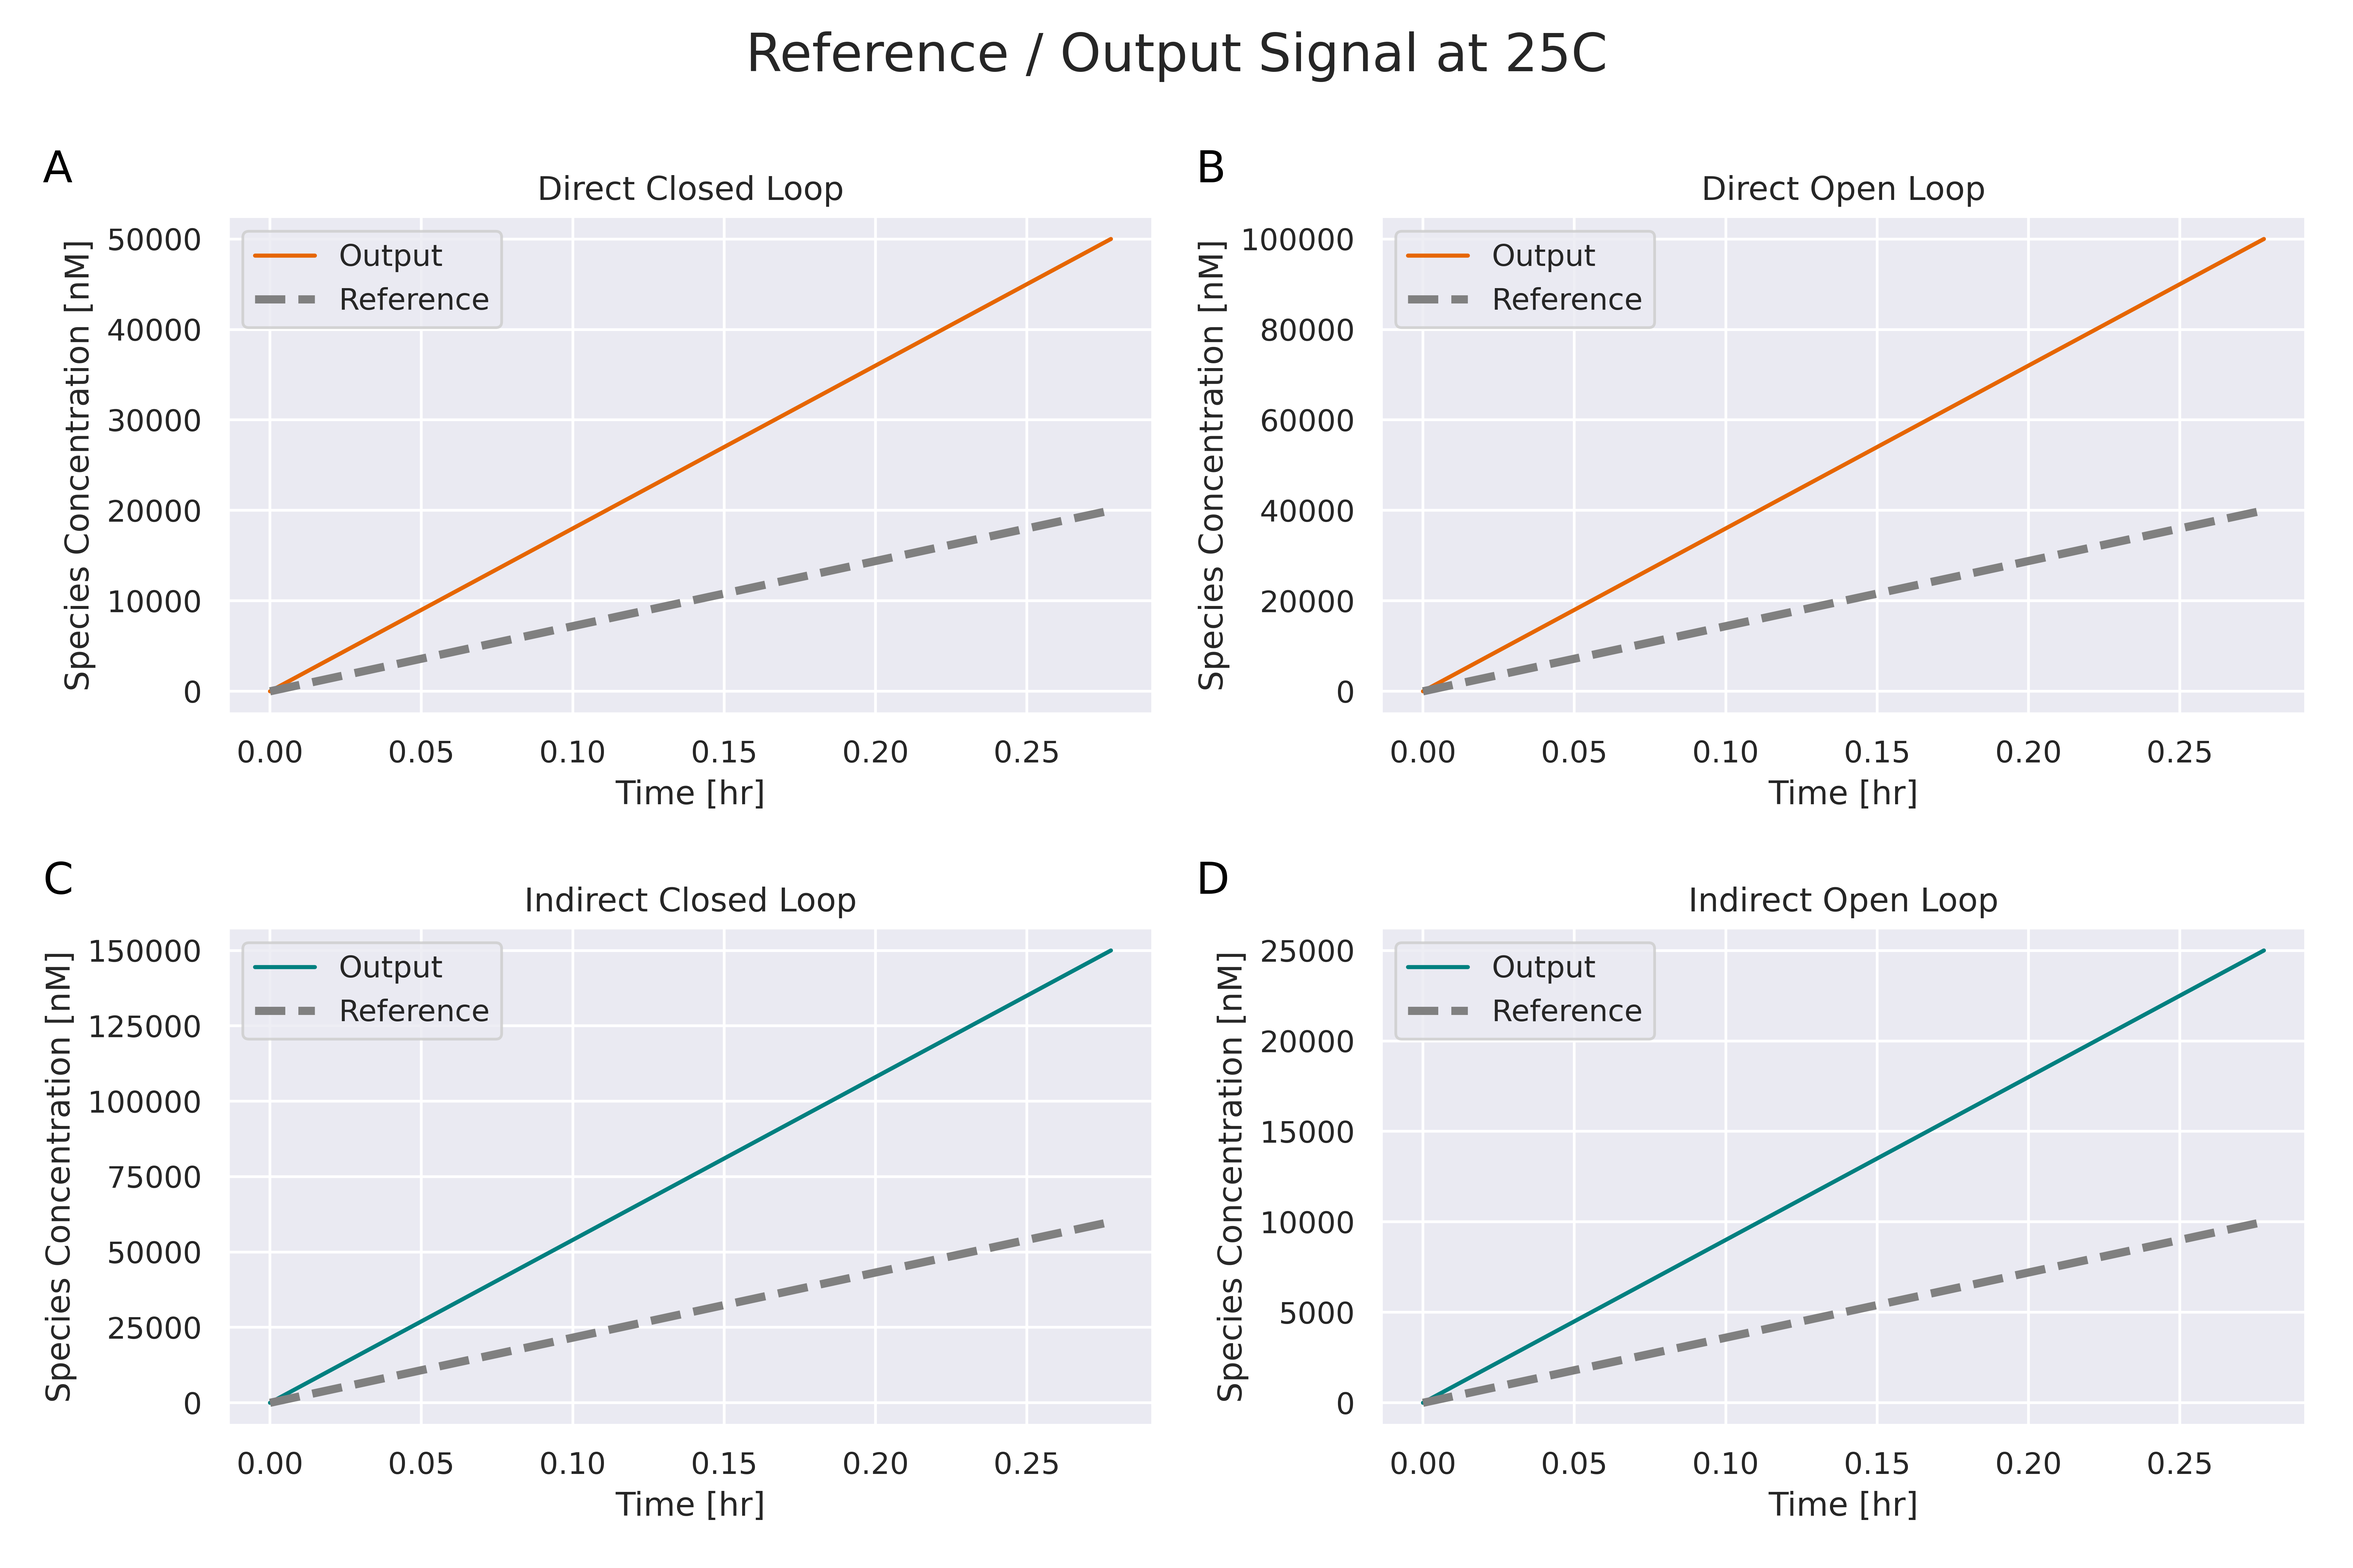
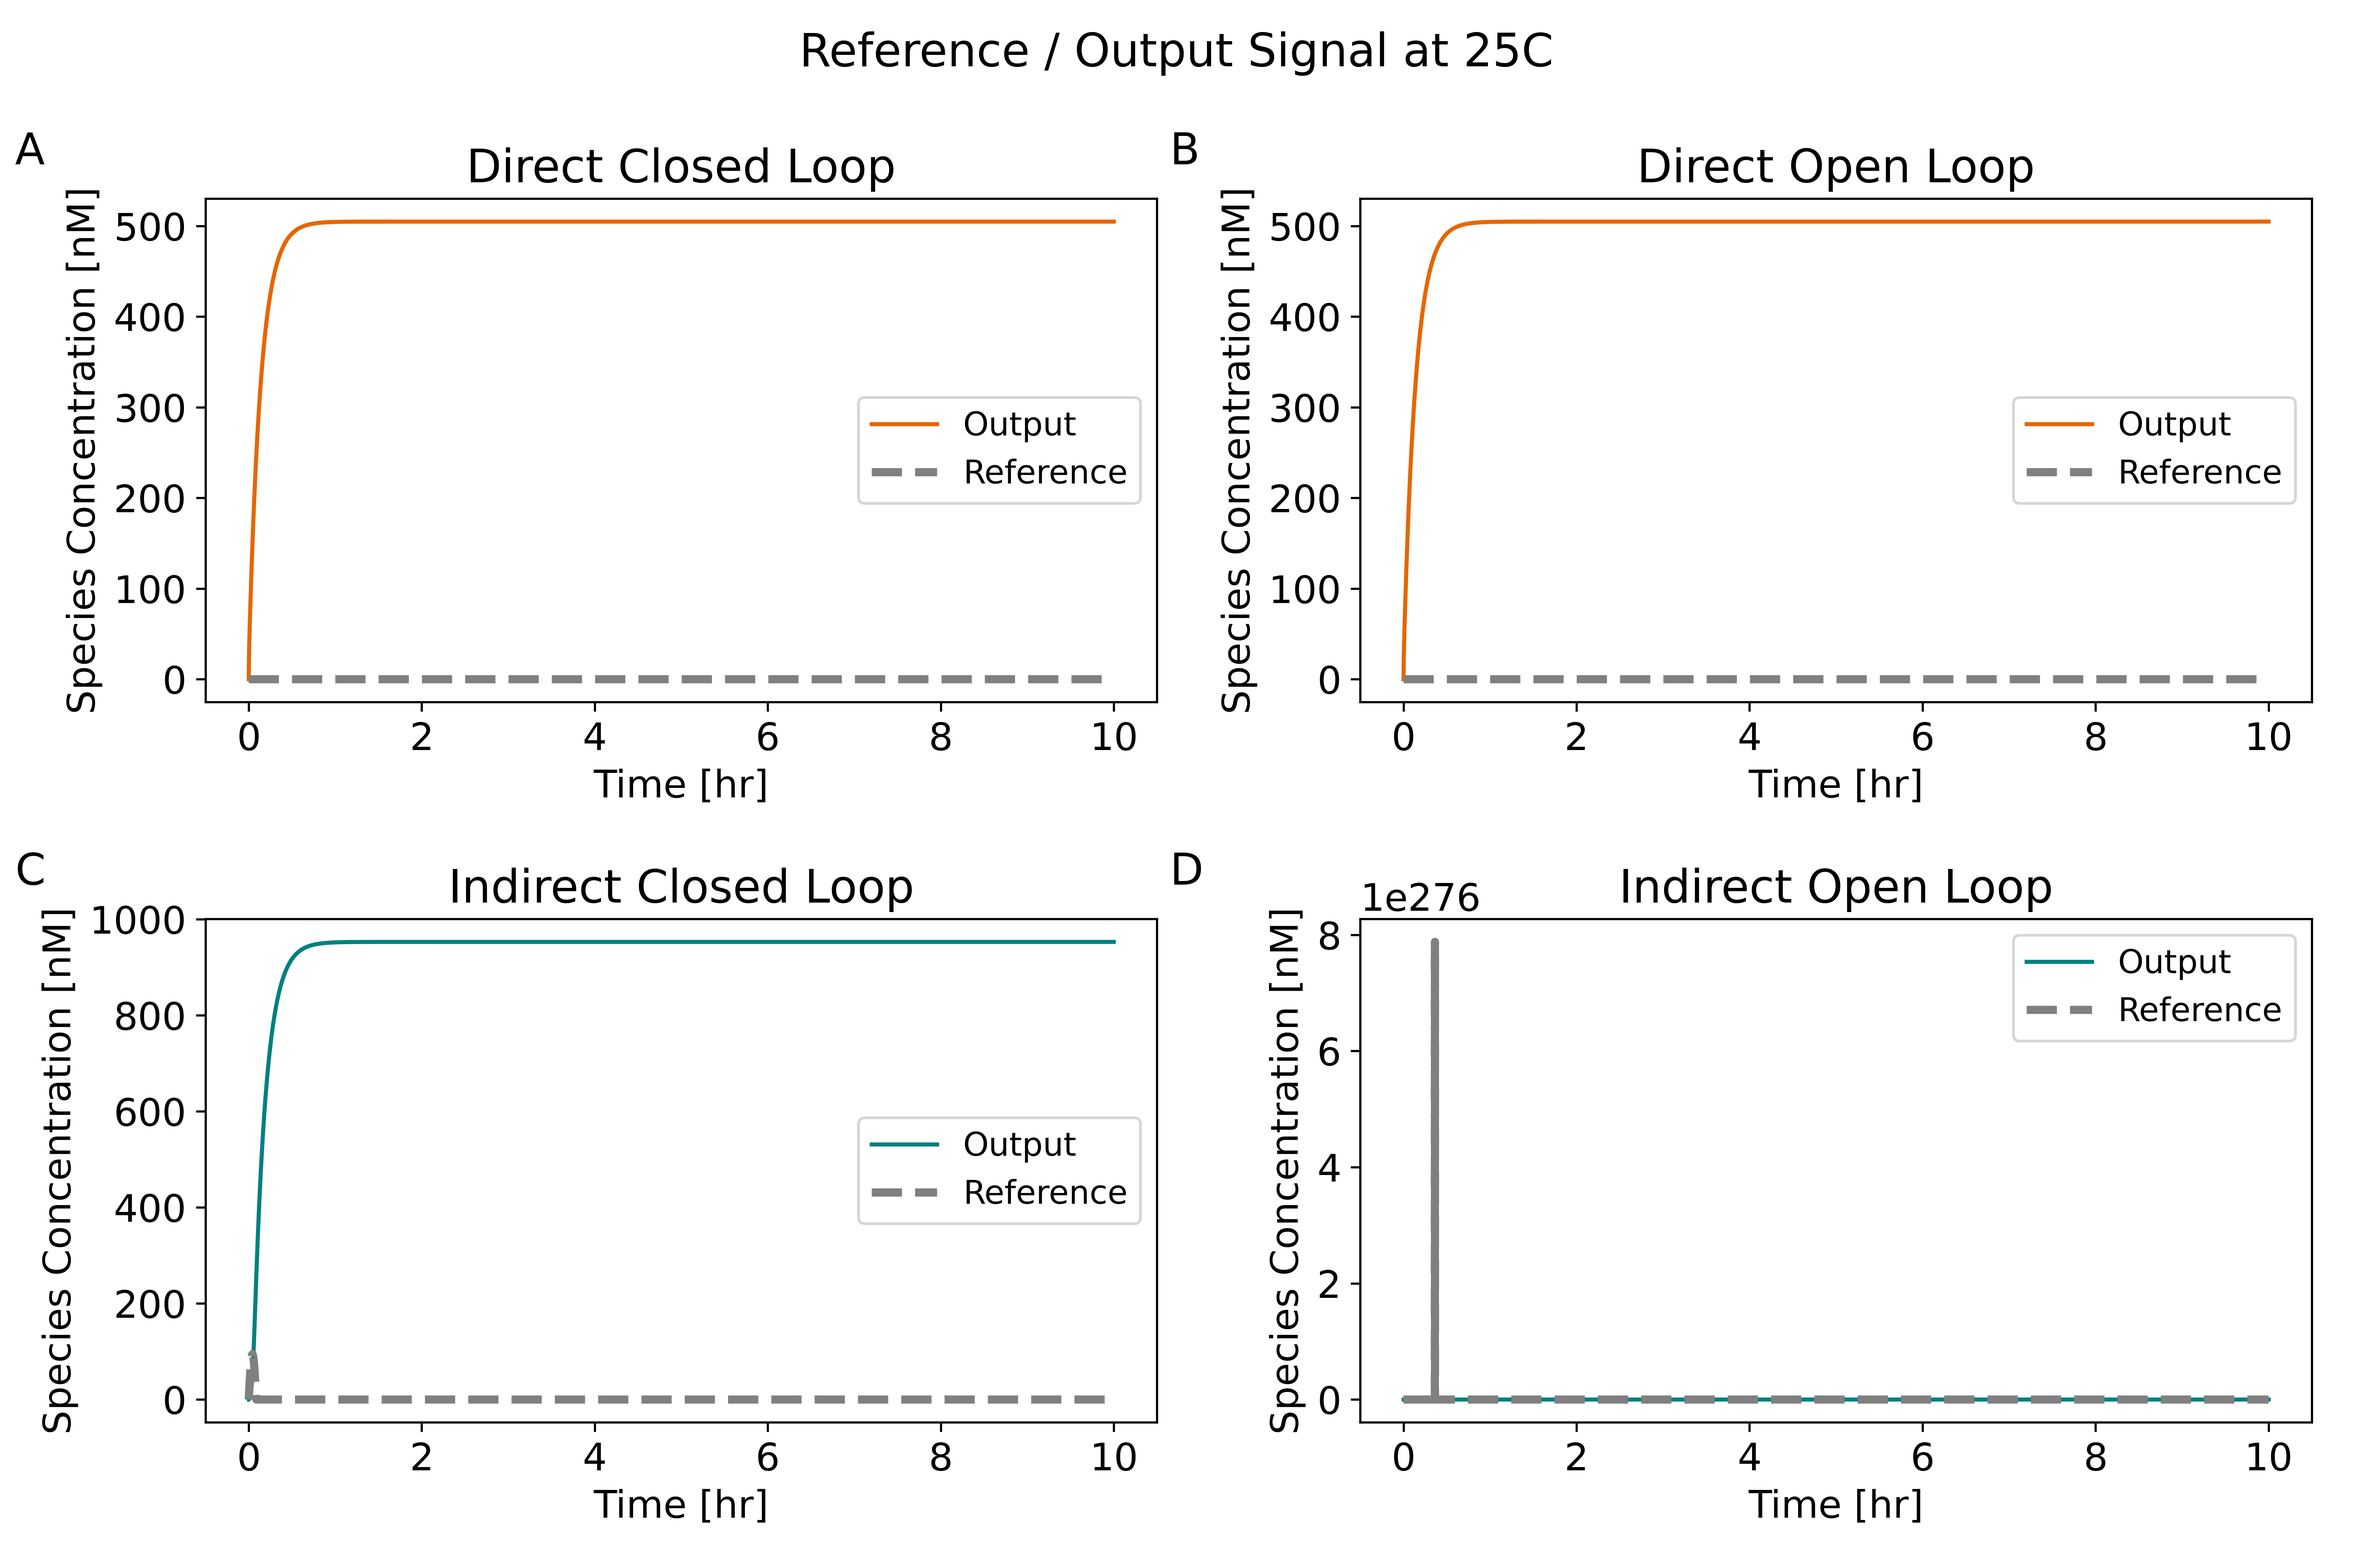
add integrated code with new plots

diff --git a/controllers.py b/controllers.py
@@ -1,6 +1,105 @@
-# This file defines the controllers ODE solutions to be imported elsewhere
+import numpy as np
+import pandas as pd
+import scipy
+from math import exp
+from typing import Dict, List, Tuple
+
+
+# ==========================================================
+# UTILITY FUNCTIONS
+# ==========================================================
+
+def arrhenius_multiplication_factor(temperature_C : List , activation_energy_kcal : float ) -> List:
+    temp_K = temperature_C + 273.15 # [ K ]
+    reference_temp = 298.15 # [ K ]
+    gas_constant = 1.9872E-3 # [ kcal / mol-K]
+    factor = exp(activation_energy_kcal*(temp_K - reference_temp) / (gas_constant * reference_temp * temp_K)) # [ unitless ]
+    return factor
+
+def rate(controller: str, temperature_C: float = 25) -> Dict[str, float]:
+    """
+    Get the dictionary of model parameters for the selected controller type
+    at a given temperature (in Celsius). Parameters are scaled using the
+    Arrhenius equation based on their reaction type (enzyme or RNA).
+
+    Parameters:
+    - controller (str): The controller type, must be one of:
+        ["direct_open_loop", "direct_closed_loop", "indirect_open_loop", "indirect_closed_loop"]
+    - temperature_C (float): Temperature in degrees Celsius at which to scale the parameters.
+                             Default is 25C, which references the parameters used in the paper.
+
+    Returns:
+    - Dict[str, float]: 
+        - A dictionary of parameter names and their temperature-scaled values.
+        
+    Raises:
+    - TypeError: If the controller type is not recognized.
+    """
+    controllers = ["direct_open_loop",
+                   "direct_closed_loop",
+                   "indirect_open_loop",
+                   "indirect_closed_loop"]
+    
+    if controller not in controllers:
+        print("The selected controller is not supported. Select a controller from the list:\n")
+        print("\n".join(controllers))
+        raise TypeError(f"Controller '{controller}' not supported.")
+
+    parameters = pd.read_csv("kinetic_parameters.csv")
+
+    enzyme_rxn_Ea = 15 # [ kcal / mol]
+    RNA_rxn_Ea = 25 # [ kcal / mol ]
+
+    enzyme_factor = arrhenius_multiplication_factor(temperature_C, activation_energy_kcal=enzyme_rxn_Ea)
+    RNA_factor = arrhenius_multiplication_factor(temperature_C, activation_energy_kcal=RNA_rxn_Ea)
+
+    def scale_row(row):
+        factor = enzyme_factor if row["type"] == "enzyme" else RNA_factor
+        value = row[controller] * factor
+        return float(f"{value:.5g}") # round to 5 sig figs
+
+    parameters["scaled_value"] = parameters.apply(scale_row, axis=1)
+
+    rate_at_temperature = dict(zip(parameters["parameter"], parameters["scaled_value"]))
+    return rate_at_temperature
+
+def to_latex_label(param_name: str) -> str:
+    """
+    Convert a parameter name like 'alpha_X' or 'kappa' into a LaTeX-formatted
+    label for matplotlib plotting. 
+    Edited from GPT prompt: 
+    'write a small function that converts strings to properly formatted 
+    latex to be displayed in matplotlib like r"\alpha_X" and "\omega" etc'
+
+    Examples:
+    - 'alpha_X' -> r"$\\alpha_X$"
+    - 'kappa'   -> r"$\\kappa$"
+    """
+    greek_letters = {'alpha', 'beta', 'delta','kappa', 'nu', 'omega' }
+
+    parts = param_name.split('_')
+
+    if parts[0] in greek_letters:
+        base = f"\\{parts[0]}"
+    else:
+        base = parts[0]  # Not a greek letter, leave as is
+
+    if len(parts) == 1:
+        return rf"${base}$"
+    elif len(parts) == 2:
+        return rf"${base}_{{{parts[1]}}}$"
+    else:
+        # Join all remaining parts with _ and allow for sub/subscripts
+        subscript = "_".join(parts[1:])
+        return rf"${base}_{{{subscript}}}$"
+    
+
+# ==========================================================
+# ODE SOLUTIONS
+# ==========================================================
 
 def dol_solution(conds):
+    ''' Direct Open Loop Controller'''
     temp = conds["temperature"]
     PX = conds["PX"]
     PY = conds["PY"]
@@ -15,7 +114,7 @@ def dol_solution(conds):
     
     t = np.linspace(0, conds["t_end"], conds["t_steps"])
     
-    def open_system(vars, t):
+    def system(vars, t):
         X, Y, A, PY_plus, O = vars
 
         dXdt = parameters["alpha_X"]*PX - parameters["delta_X"] - parameters["kappa"]*X*Y - parameters["omega"]*X*PY + parameters["nu"]*PY_plus
@@ -41,6 +140,7 @@ def dol_solution(conds):
     return response
 
 def dcl_solution(conds):
+    ''' Direct Closed Loop Controller'''
     temp = conds["temperature"]
     PX = conds["PX"]
     PY = conds["PY"]
@@ -81,6 +181,7 @@ def dcl_solution(conds):
     return response
 
 def iol_solution(conds):
+    ''' Indirect Open Loop Controller'''
     temp = conds["temperature"]
     PX = conds["PX"]
     PY = conds["PY"]
@@ -121,6 +222,7 @@ def iol_solution(conds):
     return response
 
 def icl_solution(conds):
+    ''' Indirect Closed Loop Controller'''
     temp = conds["temperature"]
     PX = conds["PX"]
     PY = conds["PY"]
